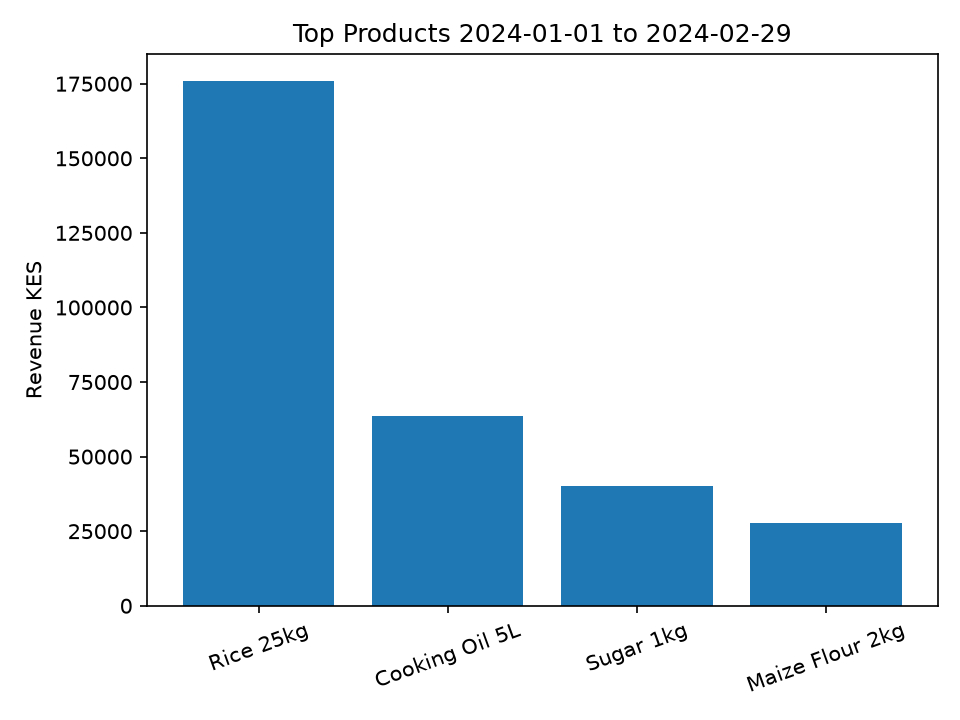
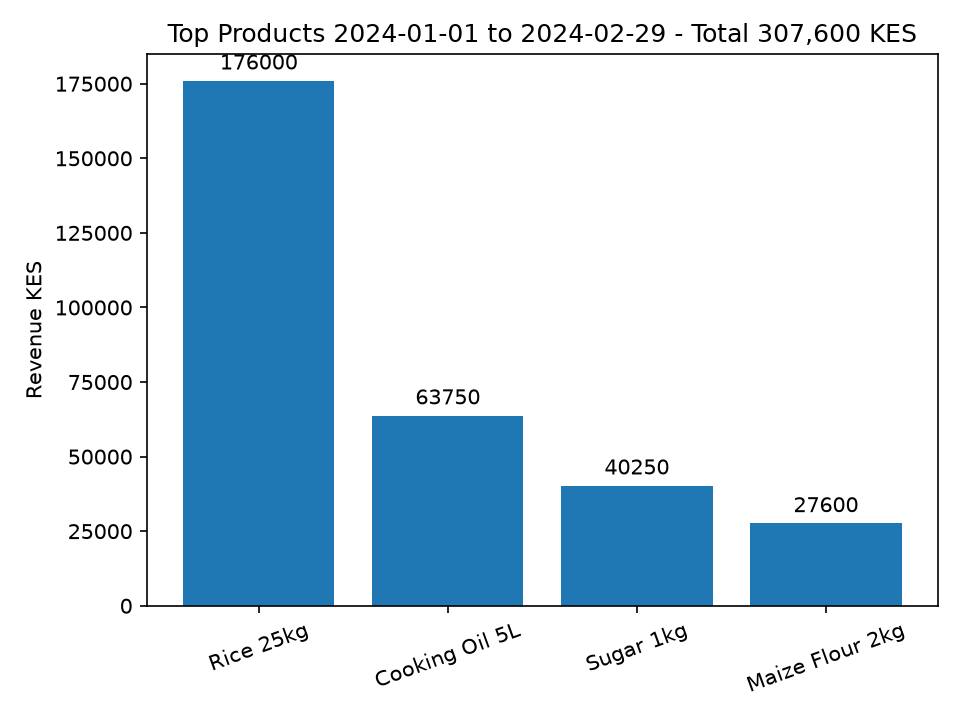
Add value labels and total to chart

diff --git a/county_report.py b/county_report.py
@@ -49,8 +49,9 @@ def plot_top_products(start_date, end_date):
     df = pd.read_sql_query(query, conn, params=(start_date, end_date))
     conn.close()
 
-    plt.bar(df['product'], df['revenue'])
-    plt.title(f"Top Products {start_date} to {end_date}")
+    bars = plt.bar(df['product'], df['revenue'])
+    plt.bar_label(bars, fmt='%.0f', padding=3, fontsize=10)
+    plt.title(f"Top Products {start_date} to {end_date} - Total 307,600 KES")
     plt.ylabel("Revenue KES")
     plt.xticks(rotation=20)
     plt.tight_layout()
